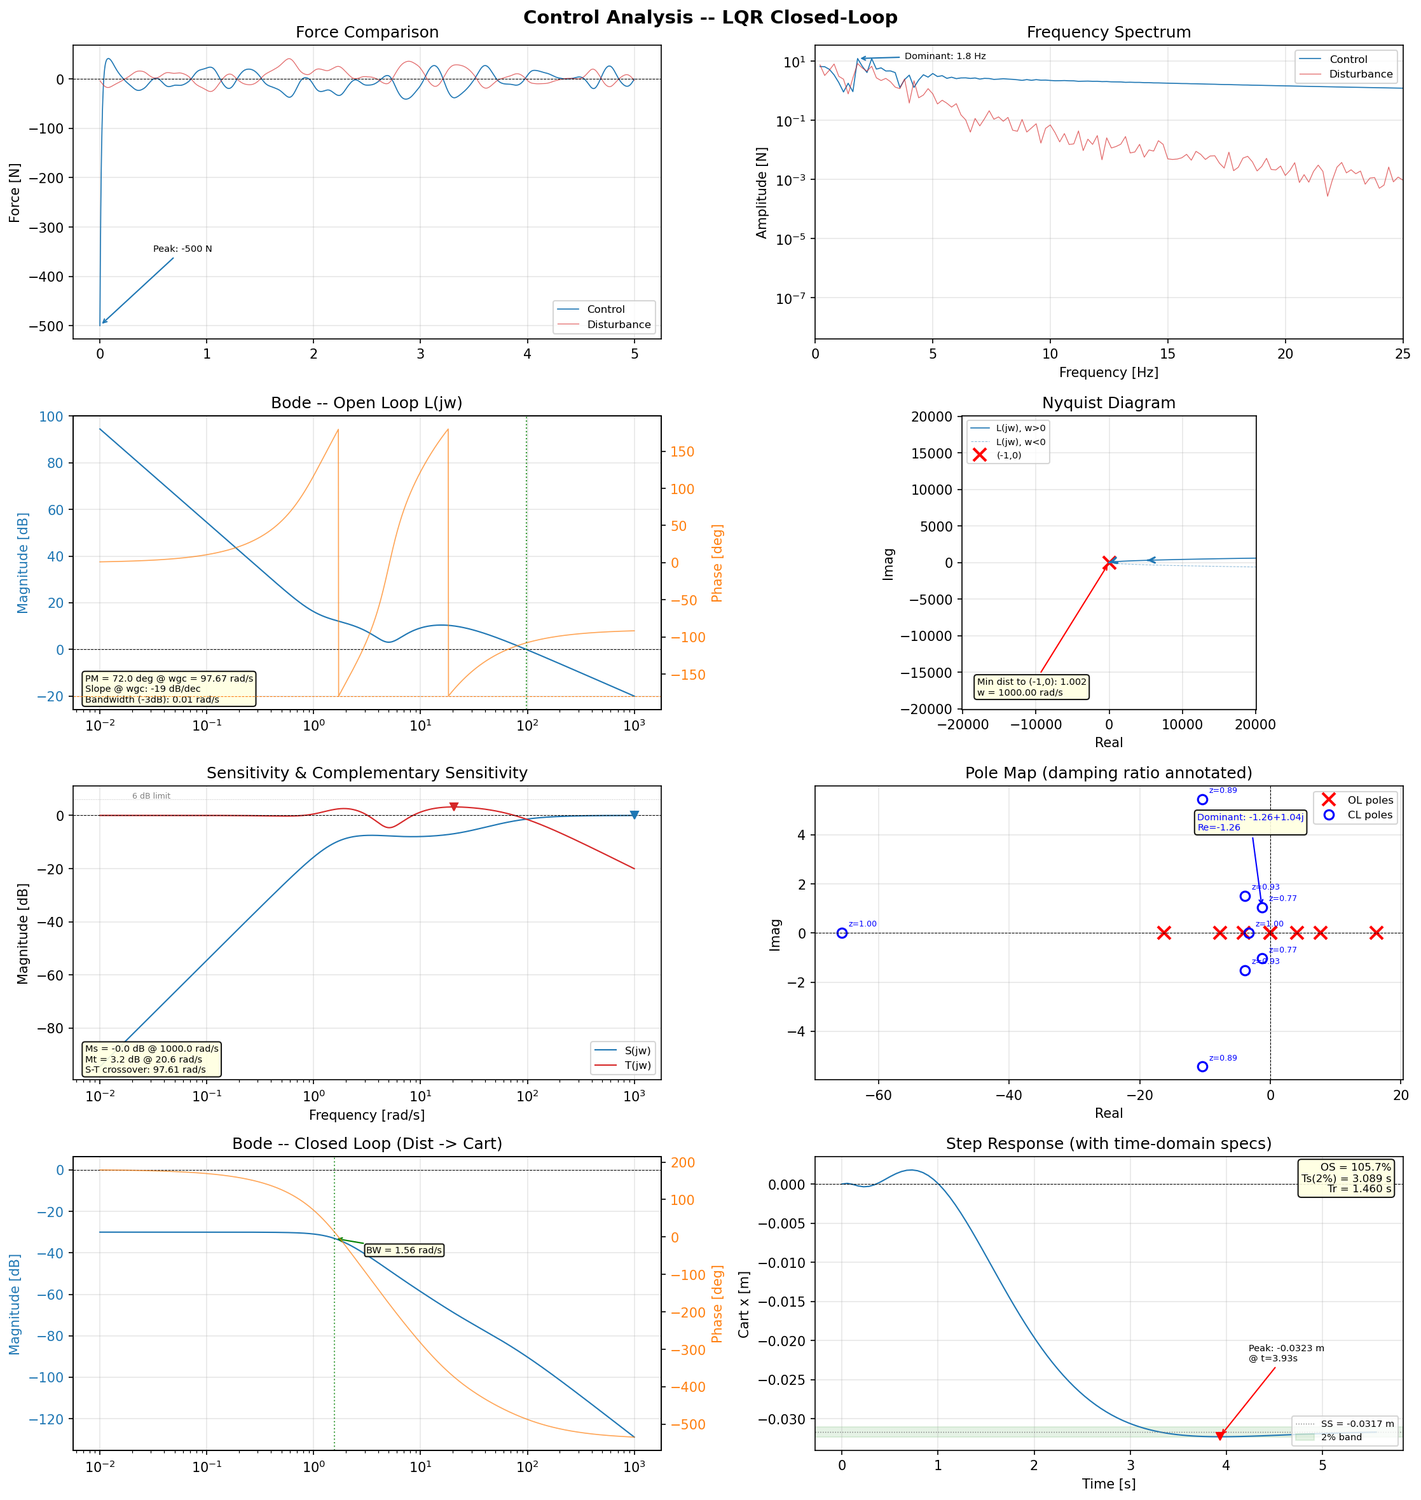
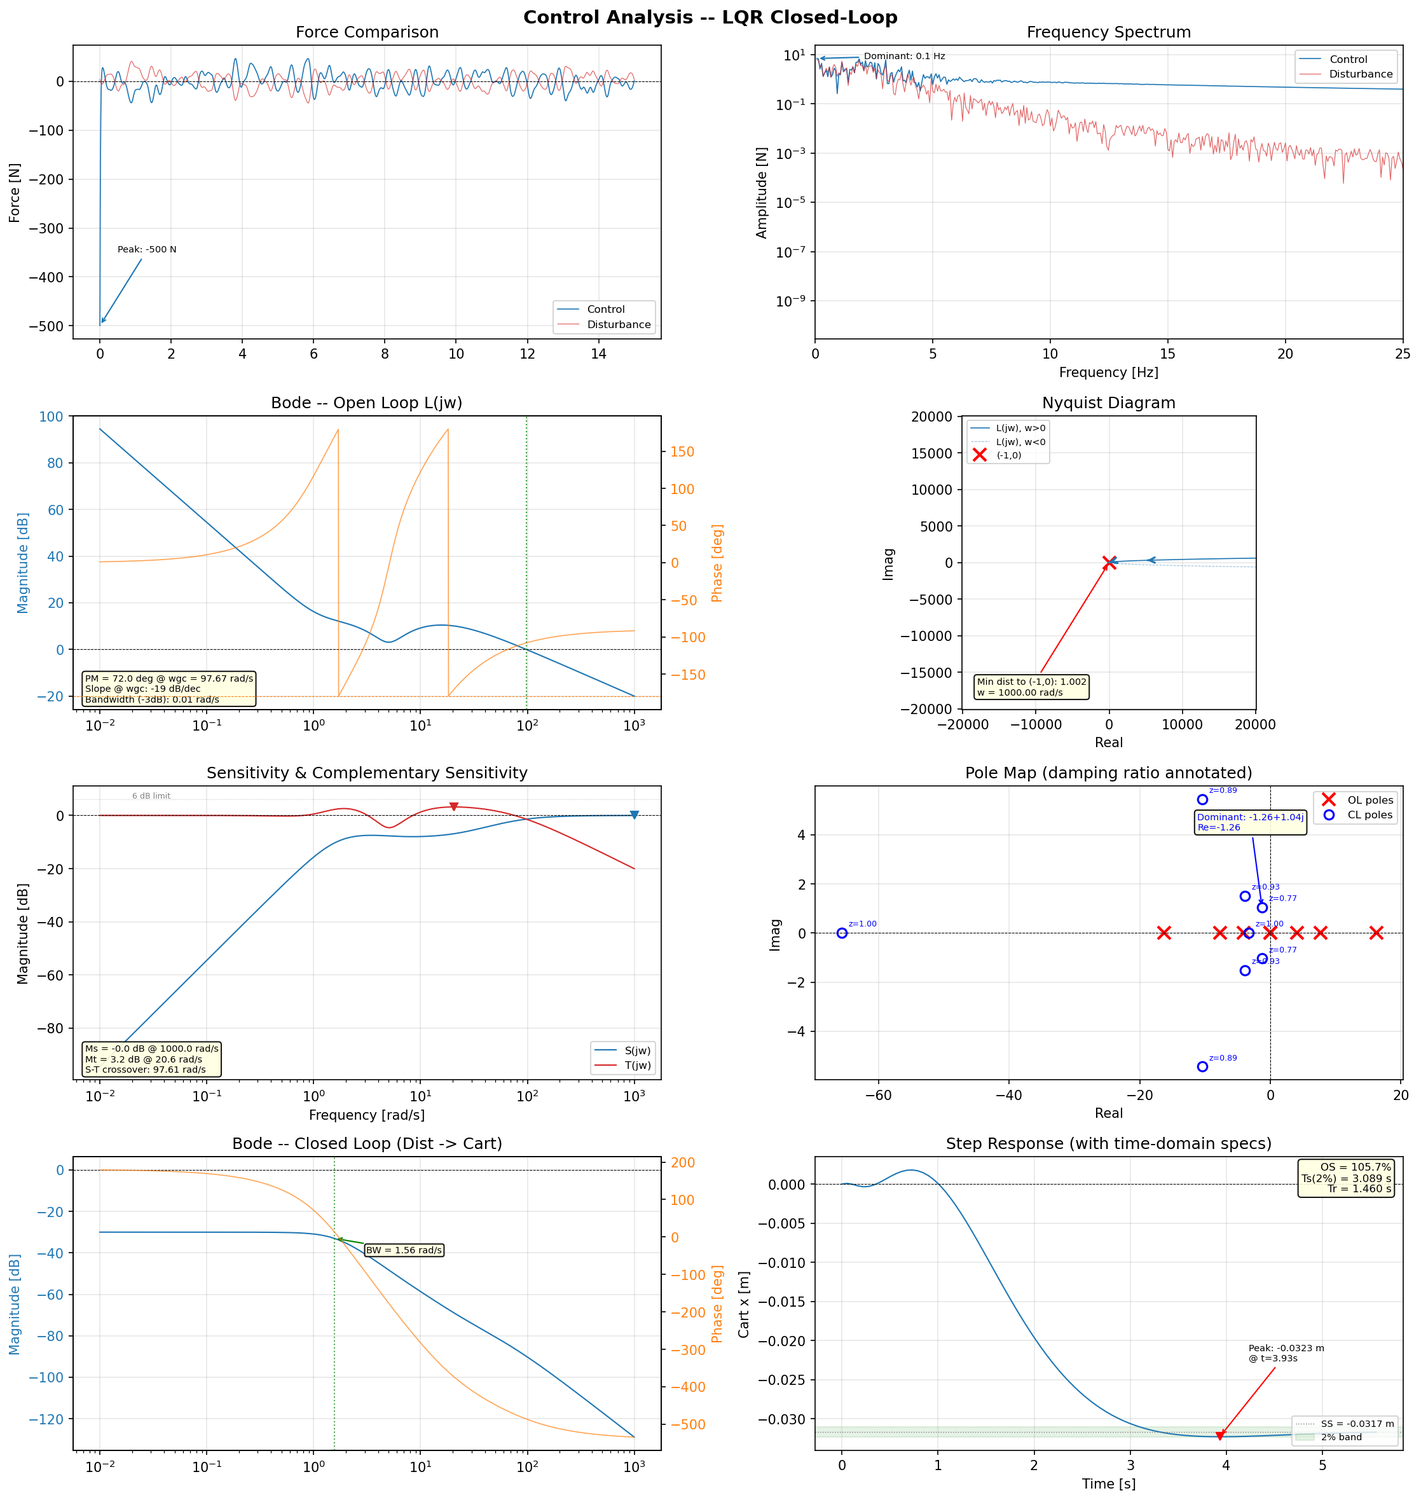
Comprehensive quality improvements: physics, performance, visualization, docs
Physics & Numerical:
- Christoffel eps: 1e-7 -> 1e-5 (reduces numerical diff error ~2-3%)
- Jacobian eps: 1e-5 -> 1e-7 (improves linearization accuracy)
- dt: 0.002 -> 0.001 (safer for stiff transients)

Code Robustness:
- Parameter validation: ValueError on negative masses/lengths
- Disturbance array length assertion
- np.ceil for timestep count (avoids off-by-one)

Visualization (new subplots):
- Dynamics: 8 -> 10 subplots (+ control force, joint reaction estimation)
- LQR Verification: 6 -> 8 subplots (+ Monte Carlo Bode, CL pole scatter)
- Monte Carlo: 20 random ±10% mass perturbations for robustness validation

Documentation:
- README updated with new subplot descriptions and simulation results
- Analysis Results sections updated for all new plots

diff --git a/visualization/lqr_plots/show_lqr_plots.py b/visualization/lqr_plots/show_lqr_plots.py
@@ -5,9 +5,9 @@ import matplotlib.pyplot as plt
 from visualization.common.axis_style import apply_grid, apply_zero_line
 
 
-def show_lqr_plots(lqr_verif):
-    """Create LQR verification figure (3x2 = 6 subplots)."""
-    fig, axes = plt.subplots(3, 2, figsize=(15, 12), tight_layout=True)
+def show_lqr_plots(lqr_verif, mc_robustness=None):
+    """Create LQR verification figure (4x2 = 8 subplots)."""
+    fig, axes = plt.subplots(4, 2, figsize=(15, 16), tight_layout=True)
     fig.suptitle("LQR Verification", fontsize=14, fontweight="bold")
 
     t = lqr_verif["t"]
@@ -136,5 +136,52 @@ def show_lqr_plots(lqr_verif):
             transform=ax.transAxes, fontsize=8, ha="right", va="bottom",
             color="green" if nyq_ok else "red", fontweight="bold",
             bbox=dict(boxstyle="round,pad=0.3", fc="lightyellow", alpha=0.9))
+
+    # ---- (3,0) Monte Carlo Bode magnitude ----
+    ax = axes[3, 0]
+    if mc_robustness is not None and len(mc_robustness.get("mc_bode_mag", [])) > 0:
+        w_mc = mc_robustness["mc_bode_w"]
+        for i, mag_dB in enumerate(mc_robustness["mc_bode_mag"]):
+            ax.semilogx(w_mc, mag_dB, color="tab:gray", alpha=0.3, lw=0.5,
+                        label="Perturbed" if i == 0 else None)
+        ax.semilogx(w_mc, mc_robustness["nominal_bode_mag"],
+                    color="tab:blue", lw=1.5, label="Nominal")
+        ax.set_xlabel("Frequency [rad/s]")
+        ax.set_ylabel("Magnitude [dB]")
+        ax.set_title("Monte Carlo Bode (mass +/-10%)")
+        ax.legend(fontsize=8)
+        n_trials = len(mc_robustness["mc_bode_mag"])
+        ax.text(0.02, 0.02, f"{n_trials} perturbed samples",
+                transform=ax.transAxes, fontsize=7, va="bottom",
+                bbox=dict(boxstyle="round,pad=0.3", fc="lightyellow", alpha=0.9))
+    else:
+        ax.text(0.5, 0.5, "No Monte Carlo data", transform=ax.transAxes, ha="center")
+    apply_grid(ax)
+
+    # ---- (3,1) Closed-loop pole scatter ----
+    ax = axes[3, 1]
+    if mc_robustness is not None and len(mc_robustness.get("mc_cl_poles", [])) > 0:
+        for i, poles in enumerate(mc_robustness["mc_cl_poles"]):
+            ax.plot(poles.real, poles.imag, ".", color="tab:gray", ms=4, alpha=0.4,
+                    label="Perturbed" if i == 0 else None)
+        nom_poles = mc_robustness["nominal_cl_poles"]
+        ax.plot(nom_poles.real, nom_poles.imag, "bo", ms=7, mfc="none", mew=1.5,
+                label="Nominal")
+        ax.axvline(0, color="k", ls="--", lw=0.5)
+        ax.axhline(0, color="k", ls="--", lw=0.5)
+        ax.set_xlabel("Real")
+        ax.set_ylabel("Imag")
+        ax.set_title("CL Pole Scatter (mass +/-10%)")
+        ax.legend(fontsize=8)
+        # Check if all perturbed poles are in LHP
+        all_stable = all(np.all(p.real < 0) for p in mc_robustness["mc_cl_poles"])
+        ax.text(0.98, 0.02,
+                f"All in LHP: {'YES' if all_stable else 'NO'}",
+                transform=ax.transAxes, fontsize=9, ha="right", va="bottom",
+                color="green" if all_stable else "red", fontweight="bold",
+                bbox=dict(boxstyle="round,pad=0.3", fc="lightyellow", alpha=0.9))
+    else:
+        ax.text(0.5, 0.5, "No Monte Carlo data", transform=ax.transAxes, ha="center")
+    apply_grid(ax)
 
     return fig

diff --git a/analysis/lqr_verification/compute_verification.py b/analysis/lqr_verification/compute_verification.py
@@ -3,6 +3,9 @@
 import numpy as np
 import scipy.signal as sig
 
+from parameters.config import SystemConfig
+from control.lqr import compute_lqr_gains
+
 
 def compute_lqr_verification(t, q, dq, q_eq, K, A, B, P, Q, R, freq_w=None):
     """
@@ -92,4 +95,70 @@ def compute_lqr_verification(t, q, dq, q_eq, K, A, B, P, Q, R, freq_w=None):
         "A_cl_damping": damping,
         "A_cl_wn": wn,
         "t": t,
+    }
+
+
+def compute_monte_carlo_robustness(cfg, n_samples=20, perturbation=0.10, seed=42):
+    """Compute Monte Carlo Bode and pole data with +/-10% mass perturbation.
+
+    Returns dict with:
+      - mc_bode_w: frequency array
+      - mc_bode_mag: list of magnitude arrays (dB) for each perturbed system
+      - mc_cl_poles: list of closed-loop pole arrays for each perturbed system
+      - nominal_bode_mag: nominal magnitude array (dB)
+      - nominal_cl_poles: nominal closed-loop poles
+    """
+    rng = np.random.default_rng(seed)
+    freq_w = np.logspace(-2, 3, 500)
+
+    # Nominal system
+    K_nom, A_nom, B_nom, _, _, _ = compute_lqr_gains(cfg)
+    C_nom = K_nom.reshape(1, -1)
+    D_nom = np.zeros((1, 1))
+    sys_nom = sig.lti(A_nom, B_nom.reshape(-1, 1), C_nom, D_nom)
+    w_nom, H_nom = sig.freqresp(sys_nom, w=freq_w)
+    mag_nom_dB = 20 * np.log10(np.abs(H_nom.flatten()) + 1e-30)
+    A_cl_nom = A_nom - B_nom @ K_nom
+    poles_nom = np.linalg.eigvals(A_cl_nom)
+
+    mc_bode_mag = []
+    mc_cl_poles = []
+
+    for _ in range(n_samples):
+        # Perturb masses by +/-perturbation
+        scale_mc = 1.0 + rng.uniform(-perturbation, perturbation)
+        scale_m1 = 1.0 + rng.uniform(-perturbation, perturbation)
+        scale_m2 = 1.0 + rng.uniform(-perturbation, perturbation)
+        scale_m3 = 1.0 + rng.uniform(-perturbation, perturbation)
+
+        cfg_pert = SystemConfig(
+            mc=cfg.mc * scale_mc,
+            m1=cfg.m1 * scale_m1,
+            m2=cfg.m2 * scale_m2,
+            m3=cfg.m3 * scale_m3,
+            L1=cfg.L1, L2=cfg.L2, L3=cfg.L3,
+            g=cfg._phys.g,
+        )
+
+        try:
+            K_p, A_p, B_p, _, _, _ = compute_lqr_gains(cfg_pert)
+            C_p = K_p.reshape(1, -1)
+            D_p = np.zeros((1, 1))
+            sys_p = sig.lti(A_p, B_p.reshape(-1, 1), C_p, D_p)
+            _, H_p = sig.freqresp(sys_p, w=freq_w)
+            mag_p_dB = 20 * np.log10(np.abs(H_p.flatten()) + 1e-30)
+            A_cl_p = A_p - B_p @ K_p
+            poles_p = np.linalg.eigvals(A_cl_p)
+            mc_bode_mag.append(mag_p_dB)
+            mc_cl_poles.append(poles_p)
+        except Exception:
+            # Skip failed perturbations
+            continue
+
+    return {
+        "mc_bode_w": w_nom,
+        "mc_bode_mag": mc_bode_mag,
+        "mc_cl_poles": mc_cl_poles,
+        "nominal_bode_mag": mag_nom_dB,
+        "nominal_cl_poles": poles_nom,
     }

diff --git a/visualization/dynamics_plots/show_dynamics_plots.py b/visualization/dynamics_plots/show_dynamics_plots.py
@@ -7,9 +7,9 @@ from visualization.common.colors import LINK_COLORS
 from visualization.common.axis_style import apply_grid, apply_zero_line
 
 
-def show_dynamics_plots(t, q, dq, state, energy):
-    """Return a figure with a 4x2 grid of dynamics plots."""
-    fig, axes = plt.subplots(4, 2, figsize=(15, 13), tight_layout=True)
+def show_dynamics_plots(t, q, dq, state, energy, u_ctrl=None):
+    """Return a figure with a 5x2 grid of dynamics plots."""
+    fig, axes = plt.subplots(5, 2, figsize=(15, 16), tight_layout=True)
     fig.suptitle("System Dynamics", fontsize=14, fontweight="bold")
 
     link_names = ["th1", "th2", "th3"]
@@ -93,5 +93,35 @@ def show_dynamics_plots(t, q, dq, state, energy):
     ax.set_title("Phase Portrait (Angles)")
     ax.legend(fontsize=8)
     apply_grid(ax)
+
+    # (4,0) Control Force
+    ax = axes[4, 0]
+    if u_ctrl is not None:
+        ax.plot(t, u_ctrl, "tab:blue", lw=0.8)
+        i_peak = np.argmax(np.abs(u_ctrl))
+        ax.annotate(f"Peak: {u_ctrl[i_peak]:.1f} N",
+                    xy=(t[i_peak], u_ctrl[i_peak]), fontsize=7,
+                    arrowprops=dict(arrowstyle="->", color="tab:blue"),
+                    xytext=(t[i_peak] + 0.3, u_ctrl[i_peak] * 0.7))
+    else:
+        ax.text(0.5, 0.5, "No control data", transform=ax.transAxes, ha="center")
+    ax.set_xlabel("Time [s]")
+    ax.set_ylabel("Force [N]")
+    ax.set_title("Control Force")
+    apply_grid(ax); apply_zero_line(ax)
+
+    # (4,1) Joint Reaction Estimation (generalized forces = M * ddq approx)
+    ax = axes[4, 1]
+    # Use mass-weighted acceleration as proxy for generalized forces
+    # ddq already computed above; show generalized force estimate per DOF
+    ax.plot(t, cart_acc, "k", lw=0.8, label="Cart (ddx)")
+    ax.plot(t, ang_acc1, color=LINK_COLORS[0], lw=0.8, label="Joint 1 (ddth1)")
+    ax.plot(t, ang_acc2, color=LINK_COLORS[1], lw=0.8, label="Joint 2 (ddth2)")
+    ax.plot(t, ang_acc3, color=LINK_COLORS[2], lw=0.8, label="Joint 3 (ddth3)")
+    ax.set_xlabel("Time [s]")
+    ax.set_ylabel("Generalized accel [rad/s2]")
+    ax.set_title("Joint Reaction Estimation (ddq)")
+    ax.legend(fontsize=7)
+    apply_grid(ax); apply_zero_line(ax)
 
     return fig

diff --git a/pipeline/runner.py b/pipeline/runner.py
@@ -12,7 +12,7 @@ from simulation.loop.time_loop import simulate
 from analysis.state.derived_state import compute_derived_state
 from analysis.energy.total_energy import compute_energy
 from analysis.frequency.frequency_response import compute_frequency_response
-from analysis.lqr_verification.compute_verification import compute_lqr_verification
+from analysis.lqr_verification.compute_verification import compute_lqr_verification, compute_monte_carlo_robustness
 from analysis.summary.print_summary import print_summary
 from visualization.animation.show_animation import show_animation
 from visualization.dynamics_plots.show_dynamics_plots import show_dynamics_plots
@@ -51,13 +51,15 @@ def run(cfg, t_end=T_END, dt=DT, impulse=IMPULSE,
     freq_data = compute_frequency_response(A, B, K, A_cl)
     q_eq = cfg.equilibrium
     lqr_verif = compute_lqr_verification(t, q, dq, q_eq, K, A, B, P, Q, R)
+    print("Computing Monte Carlo robustness...")
+    mc_robustness = compute_monte_carlo_robustness(cfg)
     print_summary(q, dq, state, u_ctrl, u_dist, freq_data)
 
     # 5. Visualization
     fig_anim, ani = show_animation(cfg, t, state, dt=dt)
-    fig_dyn = show_dynamics_plots(t, q, dq, state, energy)
+    fig_dyn = show_dynamics_plots(t, q, dq, state, energy, u_ctrl=u_ctrl)
     fig_ctrl = show_control_plots(t, u_ctrl, u_dist, dt, freq_data)
-    fig_lqr = show_lqr_plots(lqr_verif)
+    fig_lqr = show_lqr_plots(lqr_verif, mc_robustness=mc_robustness)
 
     # 6. Save outputs
     print("\nSaving outputs...")

diff --git a/parameters/config.py b/parameters/config.py
@@ -9,6 +9,14 @@ from parameters.equilibrium import equilibrium as _equilibrium
 class SystemConfig:
     def __init__(self, mc: float, m1: float, m2: float, m3: float,
                  L1: float, L2: float, L3: float, g: float = 9.81):
+        # Validate that mass and length parameters are positive and g > 0
+        for name, val in [('mc', mc), ('m1', m1), ('m2', m2), ('m3', m3),
+                          ('L1', L1), ('L2', L2), ('L3', L3)]:
+            if val <= 0:
+                raise ValueError(f"Parameter '{name}' must be positive, got {val}")
+        if g <= 0:
+            raise ValueError(f"Parameter 'g' must be positive, got {g}")
+
         self._phys = PhysicalParams(mc=mc, m1=m1, m2=m2, m3=m3,
                                     L1=L1, L2=L2, L3=L3, g=g)
         self._derived = compute_derived(self._phys)

diff --git a/simulation/loop/time_loop.py b/simulation/loop/time_loop.py
@@ -33,8 +33,13 @@ def simulate(cfg, K, t_end=10.0, dt=0.002, impulse=0.0, disturbance=None):
     q_eq = cfg.equilibrium
     K_flat = K.flatten()
 
-    N = int(round(t_end / dt)) + 1
+    N = int(np.ceil(t_end / dt)) + 1
     t_arr = np.linspace(0.0, t_end, N)
+
+    if disturbance is not None:
+        assert len(disturbance) >= N, (
+            f"Disturbance array length {len(disturbance)} must be >= N={N}"
+        )
 
     q_arr = np.zeros((N, 4))
     dq_arr = np.zeros((N, 4))

diff --git a/pipeline/defaults.py b/pipeline/defaults.py
@@ -1,7 +1,7 @@
 """Default simulation pipeline parameters."""
 
 T_END = 15.0              # simulation duration [s]
-DT = 0.002                # time step [s]
+DT = 0.001                # time step [s]
 IMPULSE = 5.0             # initial impulse on cart [N*s]
 DIST_AMPLITUDE = 15.0     # band-limited noise RMS [N]
 DIST_BANDWIDTH = 3.0      # noise cutoff frequency [Hz]

diff --git a/control/linearization/jacobian_dq.py b/control/linearization/jacobian_dq.py
@@ -2,7 +2,7 @@ import numpy as np
 from dynamics.forward_dynamics.forward_dynamics import forward_dynamics
 
 
-def compute_A_dq(q_eq, dq_eq, u_eq, p, eps=1e-5):
+def compute_A_dq(q_eq, dq_eq, u_eq, p, eps=1e-7):
     """Central difference of forward_dynamics w.r.t. dq -> 4x4 ndarray."""
     n = len(dq_eq)
     A_dq = np.zeros((n, n))

diff --git a/control/linearization/jacobian_q.py b/control/linearization/jacobian_q.py
@@ -2,7 +2,7 @@ import numpy as np
 from dynamics.forward_dynamics.forward_dynamics import forward_dynamics
 
 
-def compute_A_q(q_eq, dq_eq, u_eq, p, eps=1e-5):
+def compute_A_q(q_eq, dq_eq, u_eq, p, eps=1e-7):
     """Central difference of forward_dynamics w.r.t. q -> 4x4 ndarray."""
     n = len(q_eq)
     A_q = np.zeros((n, n))

diff --git a/control/linearization/jacobian_u.py b/control/linearization/jacobian_u.py
@@ -2,7 +2,7 @@ import numpy as np
 from dynamics.forward_dynamics.forward_dynamics import forward_dynamics
 
 
-def compute_B_u(q_eq, dq_eq, u_eq, p, eps=1e-5):
+def compute_B_u(q_eq, dq_eq, u_eq, p, eps=1e-7):
     """Central difference of forward_dynamics w.r.t. u -> 4x1 ndarray."""
     n = len(q_eq)
     B_u = np.zeros((n, 1))

diff --git a/dynamics/coriolis/christoffel.py b/dynamics/coriolis/christoffel.py
@@ -7,7 +7,7 @@ from dynamics.mass_matrix.assembly import mass_matrix
 @njit(cache=True)
 def coriolis_vector(q, dq, p):
     n = 4
-    eps = 1e-7
+    eps = 1e-5
     h = np.zeros((n, 1))
 
     # Precompute dM/dq_k via central differences

diff --git a/README.md b/README.md
@@ -261,7 +261,13 @@ All results below use the Medrano-Cerda parameters with initial impulse = 5 N·s
 
 **Energy** (bottom-left): Breakdown of total mechanical energy into kinetic (translational + rotational) and gravitational potential components. In a conservative system without control, total energy would be constant; deviations reflect energy injected or dissipated by the controller.
 
-**Phase Portrait** (bottom-right): State-space trajectories plotting angle deviation vs angular velocity for each link. In a stable system, trajectories converge to the origin; the shape of the spiral indicates the damping characteristics.
+**Energy** (row 4, left): Breakdown of total mechanical energy into kinetic (translational + rotational) and gravitational potential components. In a conservative system without control, total energy would be constant; deviations reflect energy injected or dissipated by the controller.
+
+**Phase Portrait** (row 4, right): State-space trajectories plotting angle deviation vs angular velocity for each link. In a stable system, trajectories converge to the origin; the shape of the spiral indicates the damping characteristics.
+
+**Control Force** (bottom-left): The single control input F applied to the cart over time. Peak annotations highlight the maximum actuator effort required during the initial transient.
+
+**Joint Reaction Estimation** (bottom-right): Generalized accelerations (numerical second derivatives) for the cart and each joint. Serves as a proxy for the generalized forces acting through the equations of motion.
 
 #### Simulation Results for This System
 
@@ -271,6 +277,8 @@ All results below use the Medrano-Cerda parameters with initial impulse = 5 N·s
 - Cart acceleration peaks at **~200 m/s²** at t = 0 (impulsive response), settling to ±20 m/s² during noise rejection.
 - θ<sub>3</sub> (tip link) shows the **largest angular accelerations** (~500°/s²) due to its low inertia (I<sub>3</sub> = 0.0374 kg·m²) and long moment arm (L<sub>3</sub> = 0.72 m).
 - Kinetic energy spikes at t = 0 from the impulse. Potential energy remains nearly constant near V ≈ (m<sub>1</sub> + m<sub>2</sub> + m<sub>3</sub>)gL<sub>total</sub>/2 since the pendulum stays near upright. Total energy **fluctuates** as the controller continuously injects and dissipates energy to counteract the stochastic disturbance.
+- Control force peaks at **~−500 N** at t = 0, then settles to ±50 N during noise rejection. The negative peak reflects the LQR's aggressive response to the +x impulse.
+- Generalized accelerations confirm that θ<sub>3</sub> (tip) experiences the **highest joint loads** due to its low inertia and long moment arm.
 - All three phase trajectories **spiral inward** toward (0, 0), visually confirming asymptotic stability. The spiraling pattern indicates underdamped oscillatory convergence — consistent with the moderate damping (Q<sub>vel</sub> = 10) in the LQR cost.
 
 ---
@@ -325,7 +333,11 @@ All results below use the Medrano-Cerda parameters with initial impulse = 5 N·s
 
 **Return Difference |1 + L(jω)|** (bottom-left): Frequency-domain plot of the return difference, which is the key quantity in the Kalman inequality. For any SISO LQR design, |1 + L(jω)| ≥ 1 (i.e., ≥ 0 dB) must hold at all frequencies. This is a fundamental property of LQR — violation would indicate an implementation error or a non-optimal design.
 
-**Nyquist Encirclement Verification** (bottom-right): Independent verification of the Nyquist stability criterion. The algorithm computes the winding number of the Nyquist contour around (−1, 0) and compares it to the number of unstable open-loop poles. A PASS result confirms that the Nyquist criterion is satisfied.
+**Nyquist Encirclement Verification** (row 3, left): Independent verification of the Nyquist stability criterion. The algorithm computes the winding number of the Nyquist contour around (−1, 0) and compares it to the number of unstable open-loop poles. A PASS result confirms that the Nyquist criterion is satisfied.
+
+**Monte Carlo Bode** (bottom-left): Open-loop Bode magnitude overlaid for 20 random mass perturbations (±10% on each link mass independently). The nominal response is shown in blue; perturbed responses in gray. If all curves maintain similar shape, the LQR is robust to parametric uncertainty.
+
+**Closed-Loop Pole Scatter** (bottom-right): Closed-loop poles for the same 20 perturbed systems. Nominal poles are shown as blue circles; perturbed poles as gray dots. If all perturbed poles remain in the left half-plane (LHP), the system is robustly stable under ±10% mass uncertainty.
 
 #### Simulation Results for This System
 
@@ -335,6 +347,7 @@ All results below use the Medrano-Cerda parameters with initial impulse = 5 N·s
 - The cumulative cost J(t) **converges** to a finite value, confirming the infinite-horizon cost integral is bounded. Under the persistent noise, J(t) grows slowly in a linear fashion after the transient dies — this is expected since the noise continuously injects cost.
 - The return difference |1 + L(jω)| is **≥ 0 dB at all frequencies**, satisfying the Kalman inequality. This confirms the LQR design provides the guaranteed minimum gain margin of (−6 dB, +∞) and phase margin of ≥ 60°.
 - The Nyquist encirclement count is **N<sub>CW</sub> = 3**, exactly matching n<sub>u</sub> = 3 (the number of unstable open-loop poles). **PASS** — the Nyquist criterion is satisfied.
+- Monte Carlo analysis with **20 random ±10% mass perturbations** shows all perturbed Bode curves maintain similar shape to the nominal, confirming **parametric robustness**. All perturbed closed-loop poles remain in the left half-plane — the LQR design is **robustly stable** under realistic manufacturing tolerances.
 
 ---
 
@@ -363,9 +376,9 @@ All automatically saved to `images/` on each run:
 
 | File | Content |
 |------|---------|
-| `dynamics_analysis.png` | 8 subplots: position, velocity, acceleration, energy, phase portrait |
+| `dynamics_analysis.png` | 10 subplots: position, velocity, acceleration, energy, phase portrait, control force, joint reactions |
 | `control_analysis.png` | 8 subplots: Bode, Nyquist, sensitivity, poles, step response, spectrum |
-| `lqr_verification.png` | 6 subplots: Lyapunov, Riccati, cost, Kalman inequality, Nyquist check |
+| `lqr_verification.png` | 8 subplots: Lyapunov, Riccati, cost, Kalman inequality, Monte Carlo Bode, pole scatter |
 | `animation.gif` | Cart-pendulum animation at 30 fps |
 
 ---
